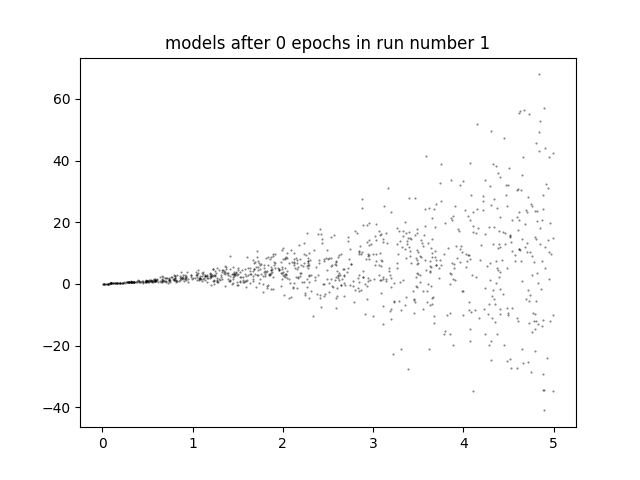
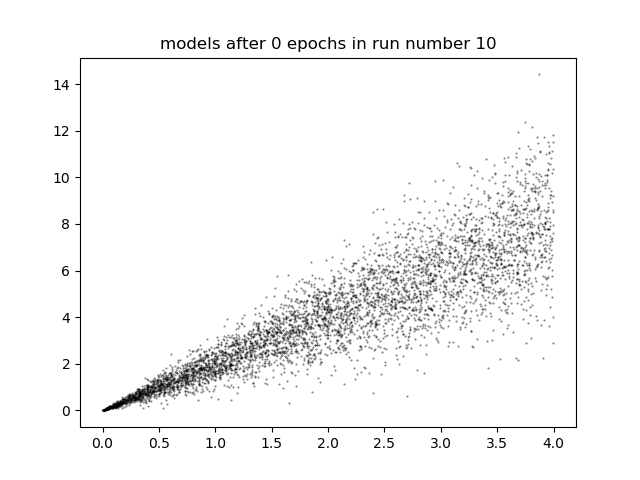
some changes

diff --git a/Experiment.py b/Experiment.py
@@ -27,9 +27,11 @@ class experiment():
         self.step_sizes = params['step_sizes']
         self.plot_colors = params['plot_colors']
         self.bias_available = params['bias_available']
+        self.mu_training = params['mu_training']
         self.experiment_name = experiment_name
 
         self.error_list = np.zeros([self.num_runs, self.num_epochs, self.num_agents])
+        self.error_list_sigma = np.zeros([self.num_runs, self.num_epochs, self.num_agents])
     def create_dataset(self):
         # create the dataset
         range_data_points = (-1, 2)
@@ -37,7 +39,8 @@ class experiment():
                               self.num_data_points * self.data_dim)
         x = np.reshape(np.sort(x), (self.num_data_points, self.data_dim))
         y = x + np.sin(4 * x) + np.sin(13 * x)
-        self.x, self.y = x, y
+        mu = x + np.sin(4 * x) + np.sin(13 * x)
+        self.x, self.y, self.mu = x, y, mu
 
     def init_models(self):
         #initializing the models
@@ -66,31 +69,52 @@ class experiment():
                 self.train_models()
                 self.validate_models(r, e)
 
-        # error plot
+        # error plot for mu
         for i in range(self.num_agents):
             err = np.mean(self.error_list, axis=0)[:, i]
             err_bar = np.std(self.error_list, axis=0)[:, i]
             self.drawPlotUncertainty(range(len(err)), err, err_bar, 'model '+ self.models[i].name, self.plot_colors[i])
         if self.plt_show:
             plt.title("error plot over all the runs")
+            plt.legend()
             plt.show()
             plt.close()
         if self.plt_save:
             plt.title("error plot over all the runs")
             plt.savefig('plots/' + self.experiment_name + '@' + str(time()) + '.png')
-        
-    
+
+        # error plot for sigma
+        for i in range(self.num_agents):
+            err = np.mean(self.error_list_sigma, axis=0)[:, i]
+            err_bar = np.std(self.error_list_sigma, axis=0)[:, i]
+            self.drawPlotUncertainty(range(len(err)), err, err_bar, 'model ' + self.models[i].name,
+                                     self.plot_colors[i])
+        if self.plt_show:
+            plt.title("error plot over all the runs for sigma")
+            plt.legend()
+            plt.show()
+            plt.close()
+        if self.plt_save:
+            plt.title("error plot over all the runs for sigma")
+            plt.savefig('plots/' + self.experiment_name + '@' + str(time()) + '.png')
+
     def train_models(self):
         for a, model in enumerate(self.models):
             for _ in range(self.num_data_points // self.batch_sizes[a]):
                 ind = np.random.choice(self.num_data_points, self.batch_sizes[a])
-                batch_x, batch_y = self.x[ind], self.y[ind]
-                model.train_model(batch_x, batch_y)
+                batch_x, batch_y, batch_mu = self.x[ind], self.y[ind], self.mu[ind]
+                # give batch_mu so mu not being learned
+                if self.mu_training[a]:
+                    model.train_model(batch_x, batch_y, batch_mu=None)
+                else:
+                    model.train_model(batch_x, batch_y, batch_mu=batch_mu)
     
     def validate_models(self, run_number, epoch_number):
         #validate models
         for a, model in enumerate(self.models):
             mu, var = model.test_model(self.x, self.y)
+            if not self.mu_training[a]:
+                mu = torch.from_numpy(self.mu).float()
             distance = torch.dist(torch.from_numpy(self.y).float(), mu)
             self.error_list[run_number, epoch_number, a] = distance
 
@@ -112,9 +136,9 @@ class experiment():
             plt.savefig('plots/' + self.experiment_name + f'{epoch_number:04}' + '.png')
             plt.close()
 
-    def drawPlotUncertainty(self, x, y, y_err, label, color):
-        plt.plot(x, y, color, label=label)
-        plt.fill_between(x,
+    def drawPlotUncertainty(self, x, y, y_err, label, color, axis=plt):
+        axis.plot(x, y, color, label=label)
+        axis.fill_between(x,
                         y - y_err,
                         y + y_err,
                         facecolor=color, alpha=0.4, edgecolor='none')

diff --git a/Exp_IrreducibleError.py b/Exp_IrreducibleError.py
@@ -9,13 +9,13 @@ from Experiment import experiment
 class experiment_irreducible_error(experiment):
     def create_dataset(self):
         # create the dataset
-        range_data_points = (0, 5)
+        range_data_points = (0, 4)
         x = np.random.uniform(range_data_points[0], range_data_points[1], self.num_data_points*1)
         x = np.reshape(np.sort(x), (self.num_data_points, 1))
-        noise = np.zeros_like(x)
+        self.noise = np.zeros_like(x)
         for i in range(x.shape[0]):
-            noise[i] = np.random.normal(0, x[i]**2)
-        y = 2 * x + noise
+            self.noise[i] = np.random.normal(0, 0.5*x[i])
+        y = 2 * x + self.noise
         mu = 2 * x
         self.x, self.y, self.mu = x, y, mu
 
@@ -24,4 +24,43 @@ class experiment_irreducible_error(experiment):
             for _ in range(self.num_data_points // self.batch_sizes[a]):
                 ind = np.random.choice(self.num_data_points, self.batch_sizes[a])
                 batch_x, batch_y, batch_mu = self.x[ind], self.y[ind], self.mu[ind]
-                model.train_model(batch_x, batch_y)#, batch_mu=None)
+                # give batch_mu so mu not being learned
+                if self.mu_training[a]:
+                    model.train_model(batch_x, batch_y, batch_mu=None)
+                else:
+                    model.train_model(batch_x, batch_y, batch_mu=batch_mu)
+
+    def validate_models(self, run_number, epoch_number):
+        # validate models
+        for a, model in enumerate(self.models):
+            mu, var = model.test_model(self.x, self.y)
+            var = np.sqrt(var)
+            if not self.mu_training[a]:
+                mu = torch.from_numpy(self.mu).float()
+            distance = torch.dist(torch.from_numpy(self.y).float(), mu)
+            sigma_distance = torch.dist(torch.from_numpy(0.5 *self.x).float(), var)
+            self.error_list[run_number, epoch_number, a] = distance
+            self.error_list_sigma[run_number, epoch_number, a] = sigma_distance
+            # draw plot till now
+
+            if epoch_number % self.plot_show_epoch_freq == 0 and self.plt_show:
+                fig, axs = plt.subplots(2, 1)
+                # mu, var = model.test_model(x, y)
+                # error = model.test_error(self.x, self.y) #only for GeneralModelwithError
+                self.drawPlotUncertainty(self.x[:, 0], mu[:, 0], var[:, 0], 'model ' + model.name, self.plot_colors[a],
+                                         axs[0])
+                axs[1].plot(self.x[:, 0], var[:, 0])
+
+        if epoch_number % self.plot_show_epoch_freq == 0 and self.plt_show:
+            axs[0].plot(self.x, self.y, 'ko', markersize=0.5, label='ground truth', alpha=0.5)
+            axs[0].title.set_text('models after ' + str(epoch_number) + ' epochs in run number ' + str(run_number + 1))
+            axs[1].plot(self.x,  0.5* self.x, 'ko', markersize=0.5, label='ground truth', alpha=0.5)
+            axs[1].title.set_text('models after ' + str(epoch_number) + ' epochs in run number ' + str(run_number + 1))
+            plt.show()
+            plt.close()
+
+        if epoch_number % self.plot_show_epoch_freq == 0 and self.plt_save:
+            plt.plot(self.x, self.y, 'ko', markersize=0.5, label='ground truth', alpha=0.5)
+            plt.title('models after ' + str(epoch_number) + ' epochs in run number ' + str(run_number + 1))
+            plt.savefig('plots/' + self.experiment_name + f'{epoch_number:04}' + '.png')
+            plt.close()

diff --git a/run_experiments.py b/run_experiments.py
@@ -21,10 +21,10 @@ from animate import animate
 if __name__ == "__main__":
     params = {
             #experiment configs
-            'num_runs': 1,
+            'num_runs': 10,
             'num_epochs': 100,
-            'num_data_points': 1000,
-            'plt_show': False,
+            'num_data_points': 5000,
+            'plt_show': True,
             'plt_save': True,
             'plot_show_epoch_freq': 10,
             
@@ -32,25 +32,27 @@ if __name__ == "__main__":
             'num_agents': 1,
             'names': ['het'],
             'hidden_layers_mu': [[]],
-            'hidden_layers_var':[[32, 32]],
+            'hidden_layers_var':[[]],
             'data_dim':1,
             'hidden_layers_error':[[]],
             'batch_sizes': [8],
             'step_sizes': [0.001],
-            'plot_colors': ['r'],     
+            'plot_colors': ['r'],
             'loss_type': ['1'],
-            'bias_available':[True]        
+            'bias_available':[True],
+            'mu_training':[False],
         }
 
     exp_names = ["bias", "bias2", "irreducible_err"]
 
-    # exp_bias = experiment_bias(params)
+    exp_name = exp_names[2]
+    # exp_bias = experiment_bias(params, exp_name)
     # exp_bias.run_experiment()
 
     # exp_bias2 = experiment_bias2(params)
     # exp_bias2.run_experiment()
 
-    exp_name = exp_names[2]
+    # exp_name = exp_names[2]
     exp_irriducible = experiment_irreducible_error(params, exp_name)
     exp_irriducible.run_experiment()
 

diff --git a/GeneralModel.py b/GeneralModel.py
@@ -34,7 +34,10 @@ class GeneralModel():
 
         pred, var = self.model(x)
         assert pred.shape == x.shape, str(pred.shape) + str(var.shape) + str(x.shape)
-
+        for i in var:
+            if torch.isnan(i):
+                print("khar")
+                pred, var = self.model(x)
         if batch_mu is None: # mu is being trained as well
             if loss_type == '1' :
                 loss = torch.mean(((pred - y) ** 2) / (2 * var) + 0.5 * torch.log(var))
@@ -50,6 +53,7 @@ class GeneralModel():
             else:
                 raise NotImplementedError("other loss functions hasn't been implemented yet!")
         loss.backward()
+        # print(loss)
         if torch.isnan(loss):
             print(torch.log(var), (pred - y) ** 2, (2 * var))
             print("loss is nan")

diff --git a/Models.py b/Models.py
@@ -87,7 +87,6 @@ class StateTransitionModelSeparate(nn.Module):
             for i, num in enumerate(num_hidden_var):
                 if i == 0:
                     vl = nn.Linear(1, num)
-                    
                 else:
                     vl = nn.Linear(num_hidden_var[i - 1], num)
                 torch.nn.init.xavier_uniform_(vl.weight, gain=1.0)
@@ -108,7 +107,8 @@ class StateTransitionModelSeparate(nn.Module):
             vlayer = lay
             vl = torch.relu(vlayer(vl))
         mu = self.mu(l)
-        var = torch.log(1 + torch.exp(self.var(vl)))
+        var = F.softplus(self.var(vl)) + 10**-6
+
         return mu, var
 
 

diff --git a/Exp_Bias.py b/Exp_Bias.py
@@ -12,7 +12,7 @@ class experiment_bias(experiment):
         range_data_points = (-2, 2)
         x = np.random.uniform(range_data_points[0], range_data_points[1], self.num_data_points*1)
         x = np.reshape(np.sort(x), (self.num_data_points, 1))
-        y = 5* (x ** 2 )
+        y = 0.5*(x ** 2 )
         self.x, self.y = x, y
 
 class experiment_bias2(experiment):
